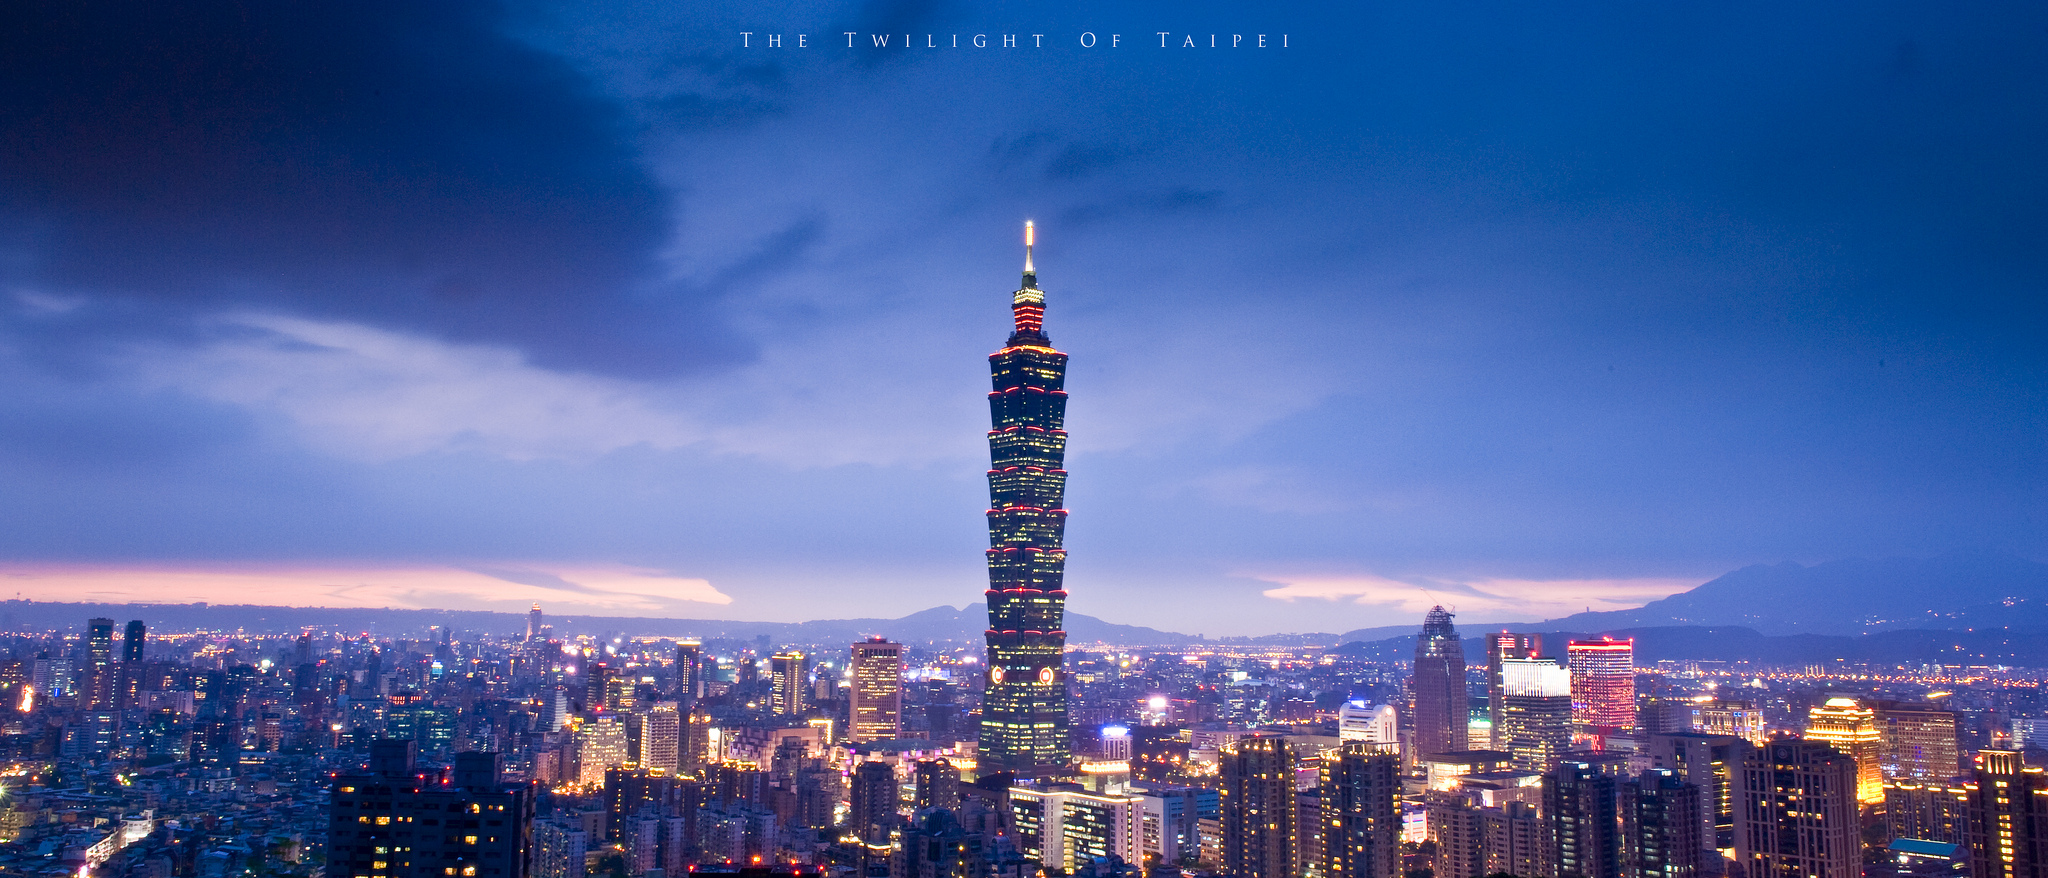
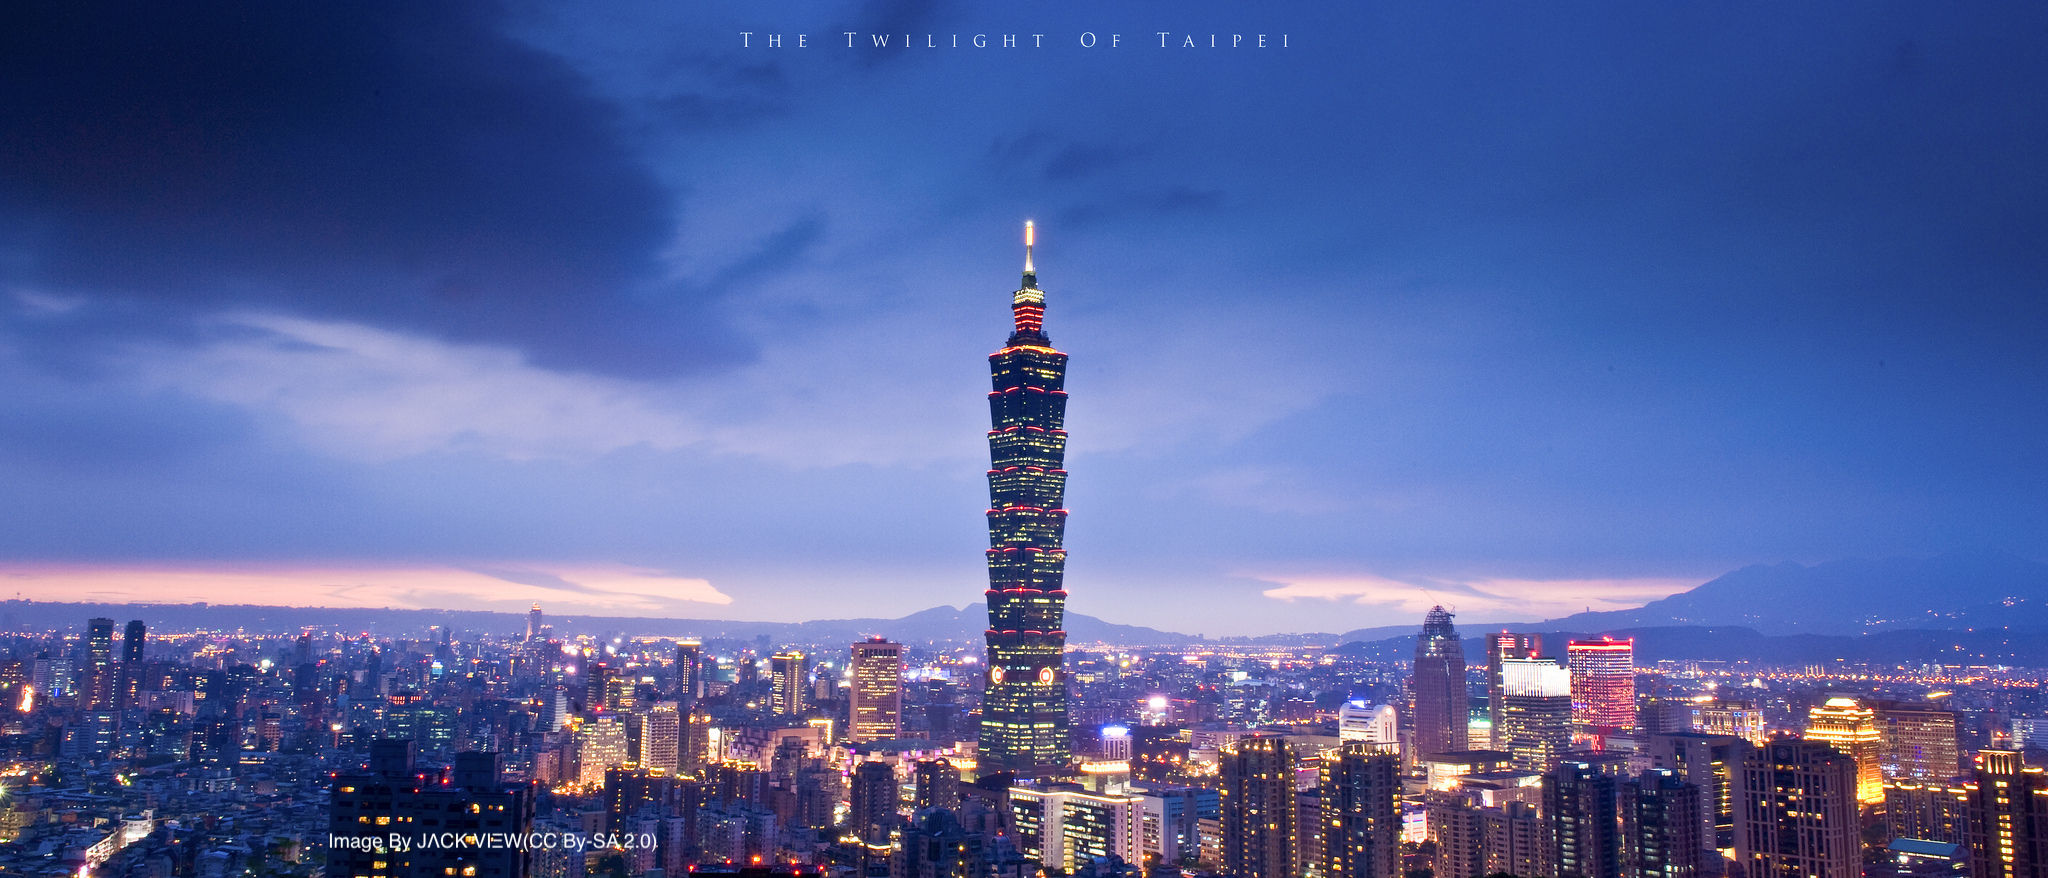
Add credit to the photos

diff --git a/static/css/pic.css b/static/css/pic.css
@@ -26,6 +26,35 @@
     transition: 0.3s ease-in-out;
 
 }
+
+.pic2{
+  display: flex;
+  background-image: url("../img/bg-taipei-101-2.jpg");
+  background-position: center;
+  backface-visibility: hidden;
+  background-size:cover;
+  width: 100%;
+  height: 100%;
+  background-repeat: no-repeat;
+  flex:1 1 auto;
+  margin: 0 auto;
+  transition: 0.3s ease-in-out;
+
+}
+.pic3{
+  display: flex;
+  background-image: url("../img/bg-taipei-101.jpg");
+  background-position: center;
+  backface-visibility: hidden;
+  background-size:cover;
+  width: 100%;
+  height: 100%;
+  background-repeat: no-repeat;
+  flex:1 1 auto;
+  margin: 0 auto;
+  transition: 0.3s ease-in-out;
+
+}
 /*img{
     display: flex;
     flex-shrink: 1;
